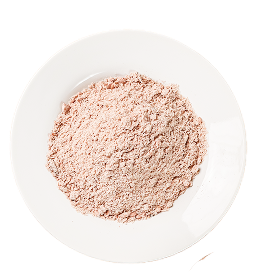
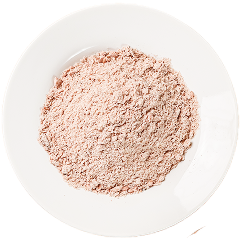
feat: update DishCarousel component to enhance image display and layout

diff --git a/src/components/dish-carousel.tsx b/src/components/dish-carousel.tsx
@@ -33,8 +33,8 @@ export function DishCarousel({ direction = "rtl", items, section }: { direction?
             {itemsList.map((dish, index) => (
               <Link key={`${group}-${dish.title}`} href={`/${finalSection}/${encodeURIComponent(dish.title)}`}>
                 <article className="relative min-h-82 w-60 shrink-0 cursor-pointer self-end rounded-[28px] border border-black/10 bg-white px-5 pb-6 pt-16 shadow-[0_10px_30px_rgba(0,0,0,0.08)] transition-all duration-200 hover:mx-3 hover:scale-104 hover:z-9999 origin-bottom sm:min-h-103 sm:w-70 sm:px-6 sm:pb-6 sm:pt-16">
-                  <div className="absolute left-1/2 top-1 z-10 h-32 w-32 -translate-x-1/2 -translate-y-1/2 rounded-full border-4 border-white bg-white shadow-lg sm:h-32 sm:w-32">
-                    <Image src={dish.thumbnailSrc} alt={dish.title} fill priority={group === 0 && index === 0} loading="eager" sizes="(max-width: 640px) 128px, 160px" className="rounded-full object-cover" />
+                  <div className="absolute left-1/2 top-0 z-10 h-32 w-32 -translate-x-1/2 -translate-y-1/2 rounded-full border-4 border-white bg-white shadow-lg flex items-center justify-center overflow-hidden sm:h-32 sm:w-32">
+                    <Image src={dish.thumbnailSrc} alt={dish.title} fill sizes="128px" priority={group === 0 && index === 0} loading="eager" className="rounded-full object-contain object-center" />
                   </div>
 
                   <div className="flex h-full gap-0 flex-col">